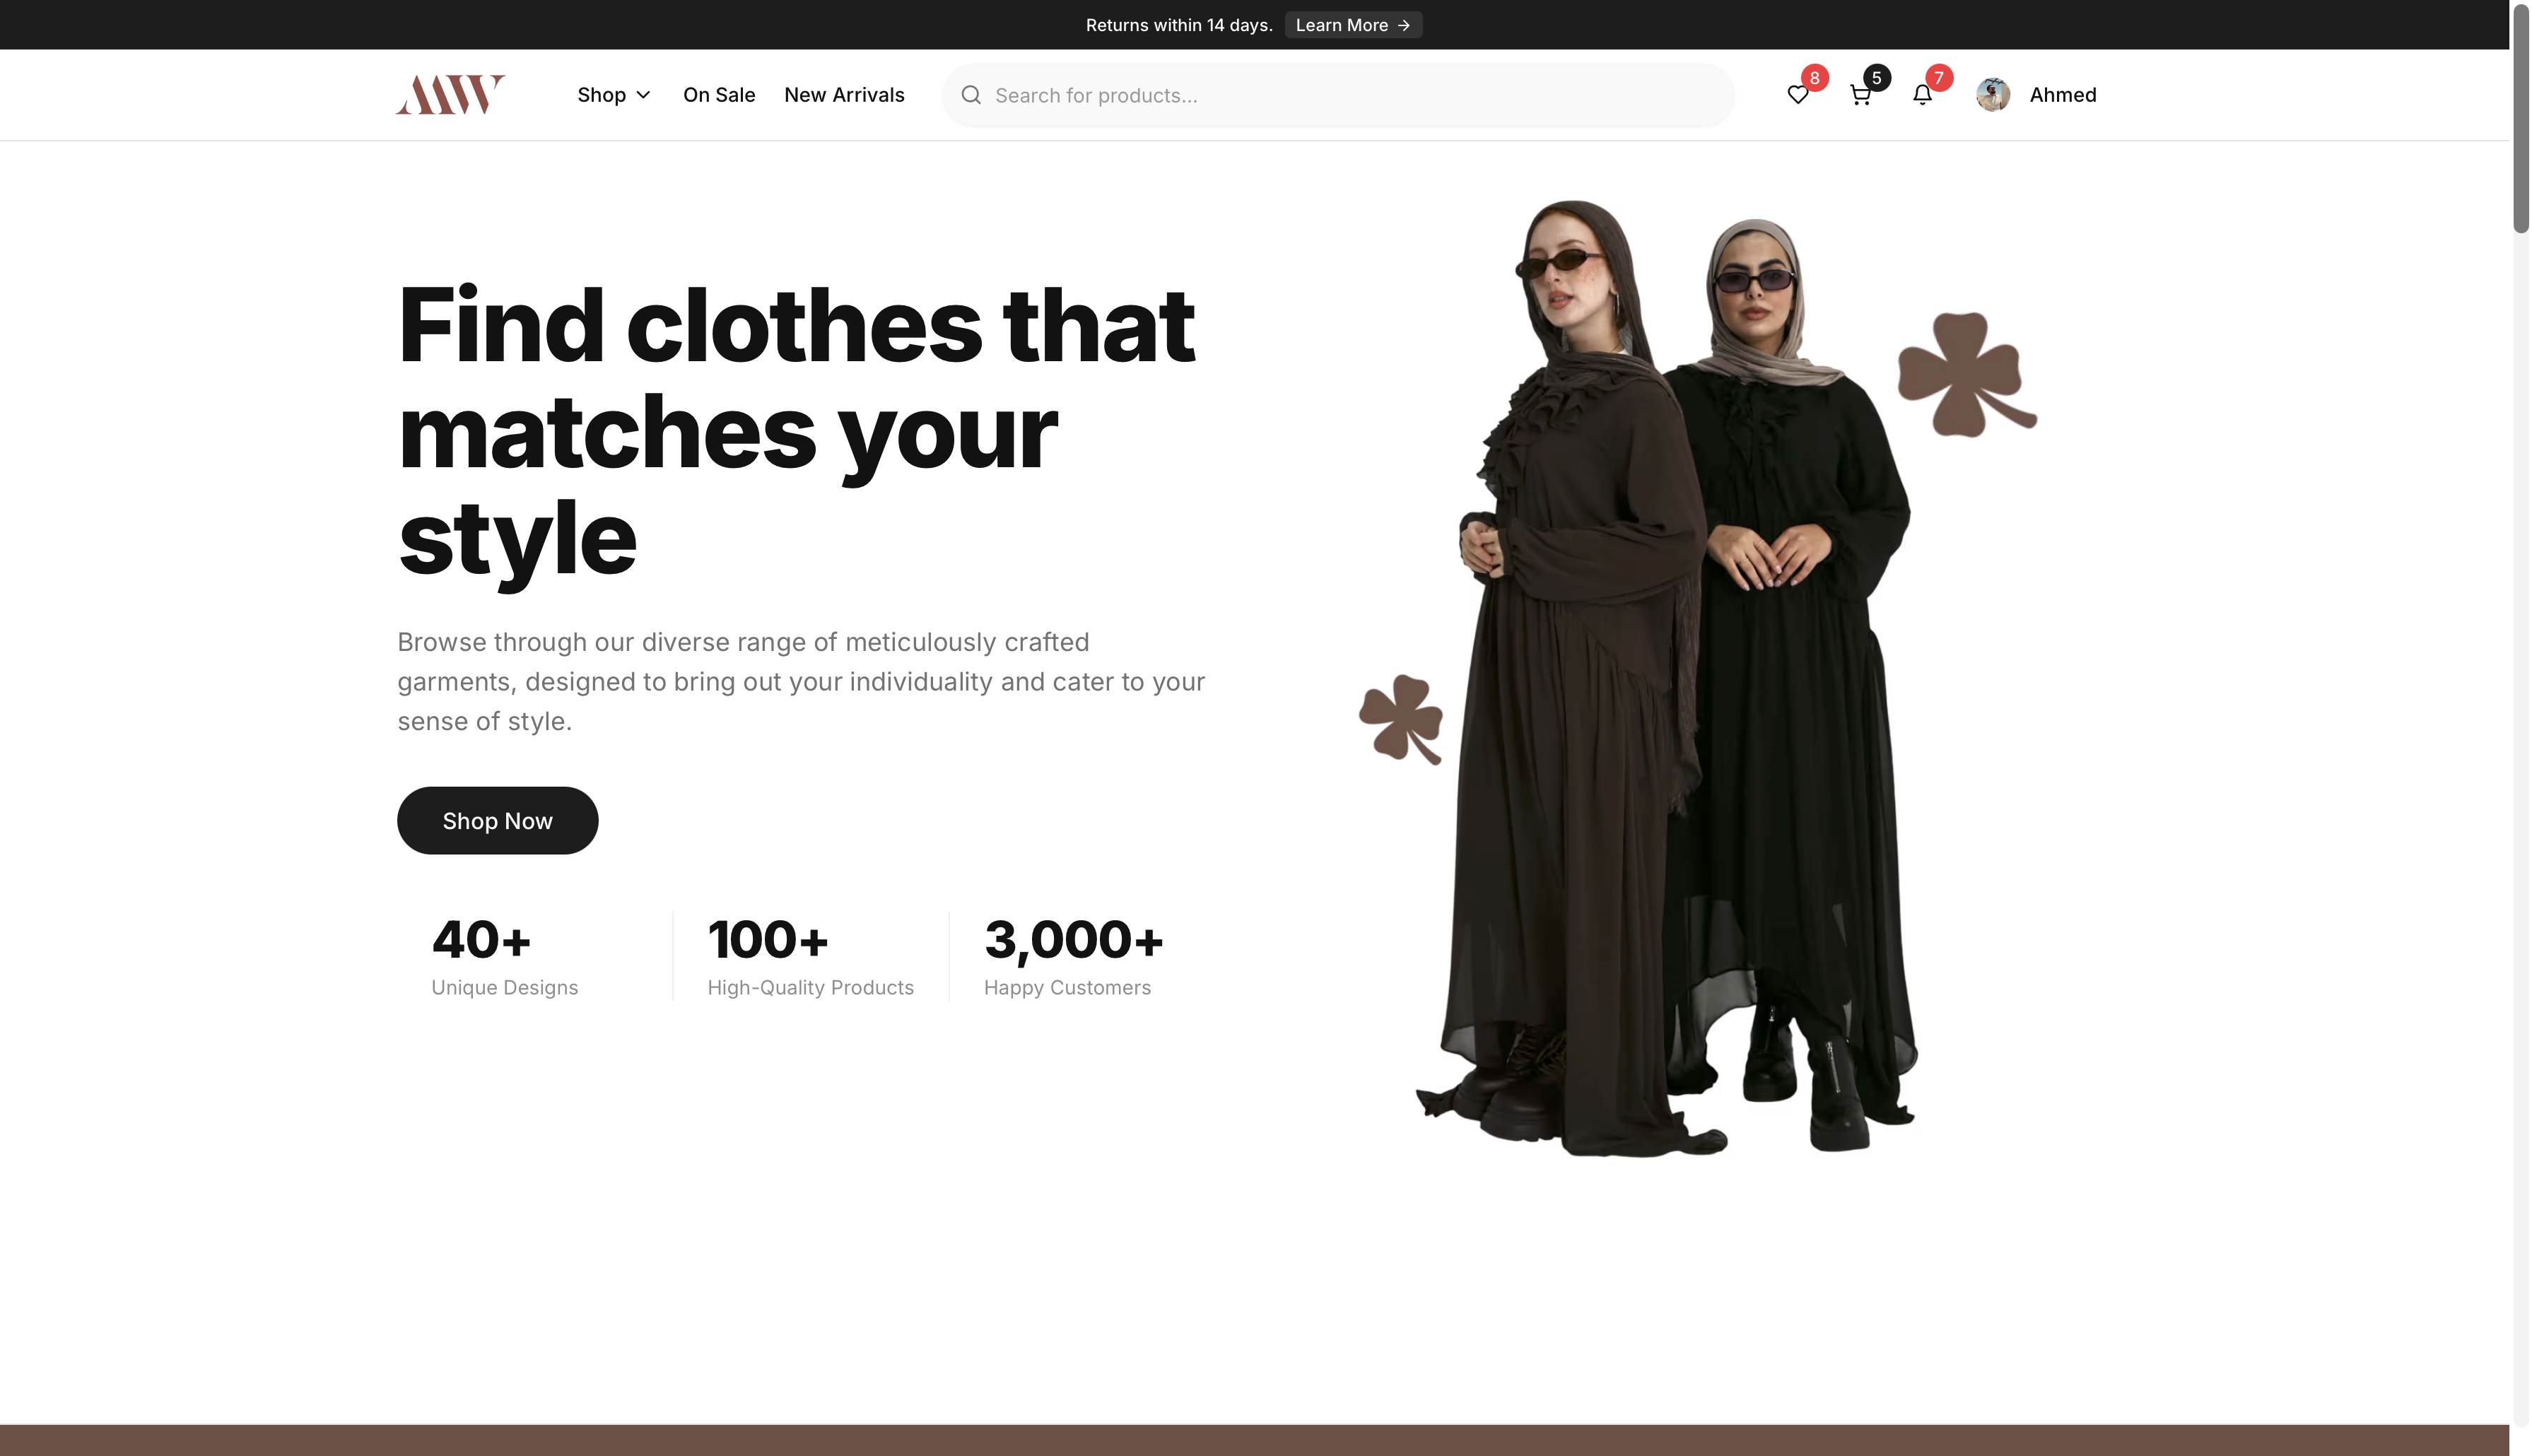
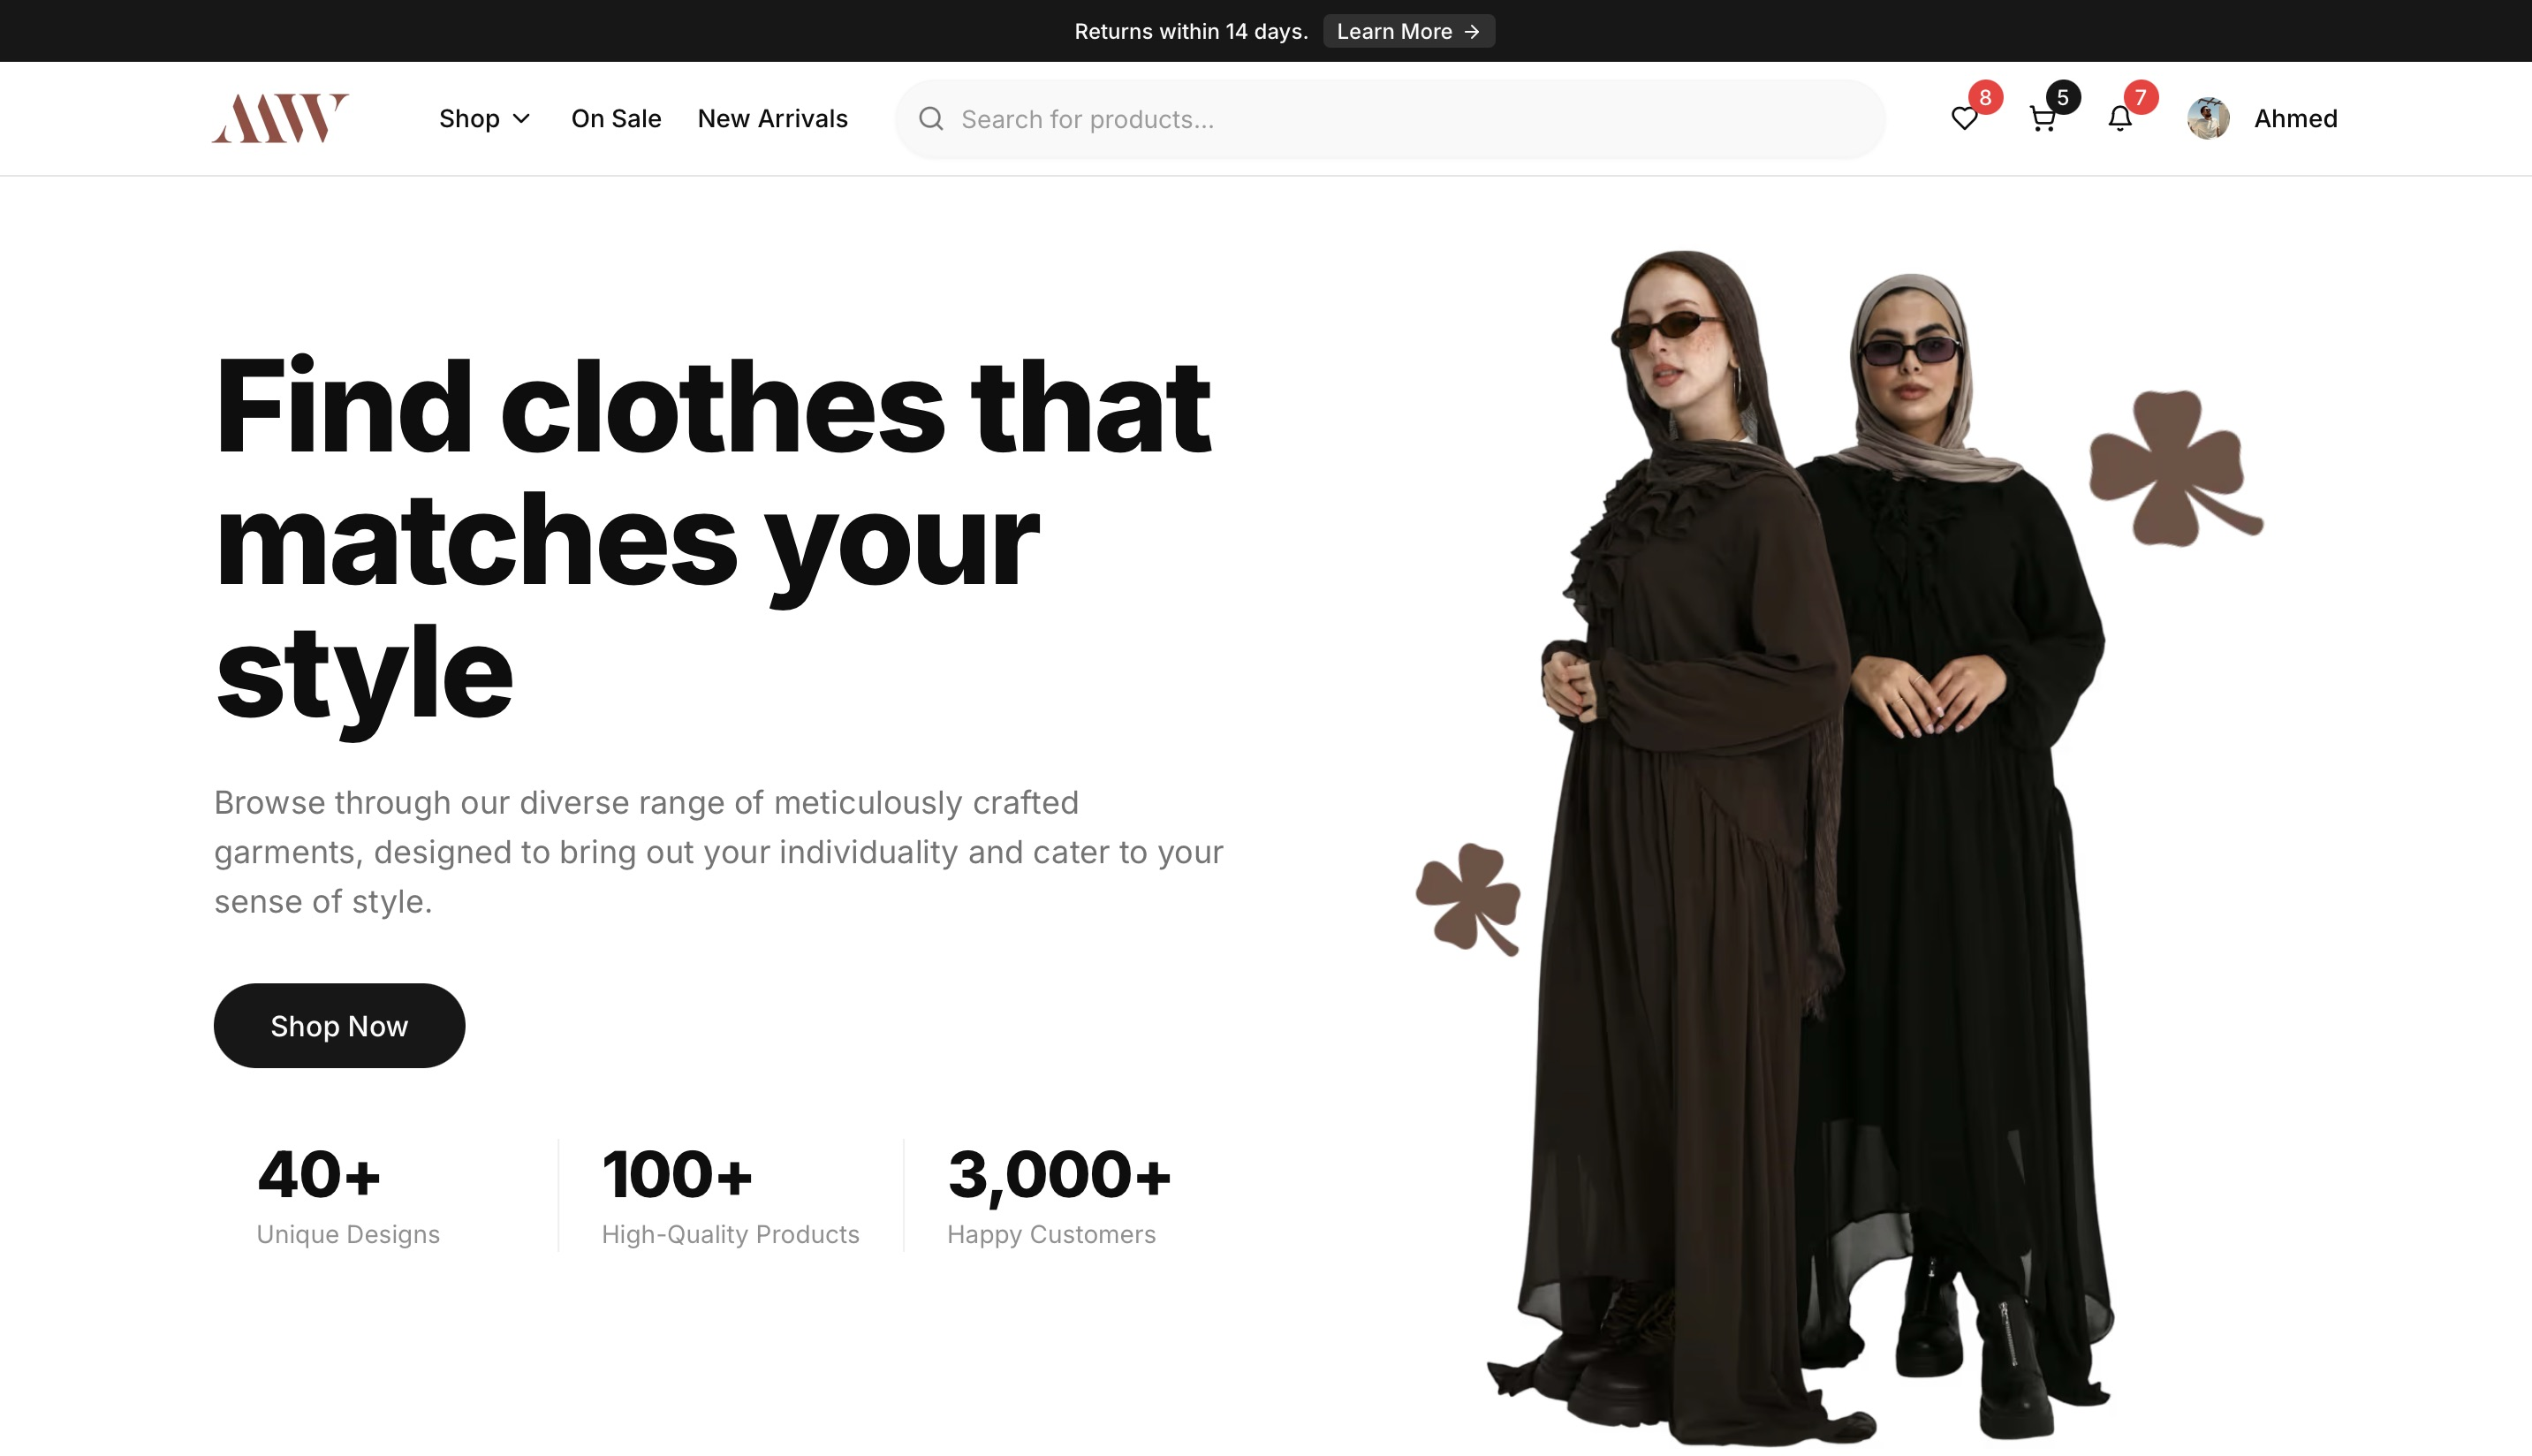
add title to project card

diff --git a/app/(public)/sections/ProjectsSection.tsx b/app/(public)/sections/ProjectsSection.tsx
@@ -2,6 +2,7 @@ import React from "react";
 import Link from "next/link";
 import Image from "next/image";
 const ProjectsSection = () => {
+  const projects = ["MODEST WEAR", "CRM SYSTEM"];
   return (
     <section className="border-box p-4 ">
       <h2 className="section-title">Projects</h2>
@@ -10,7 +11,7 @@ const ProjectsSection = () => {
           <Link
             href={`/project/${index + 1}`}
             key={index}
-            className="border-box !px-0   "
+            className="border-box !px-0 relative "
           >
             <Image
               width={500}
@@ -19,6 +20,9 @@ const ProjectsSection = () => {
               src={`/project-${index + 1}.png`}
               alt=""
             />
+            <h2 className="text-[1.5rem] md:text-[2rem] w-full text-center text-zinc-700 md:text-center absolute bottom-0 bg-tertiary  left-[50%] transform -translate-x-[50%] -translate-y-[50%]  font-bold">
+              {projects[index]}
+            </h2>
           </Link>
         ))}
       </div>